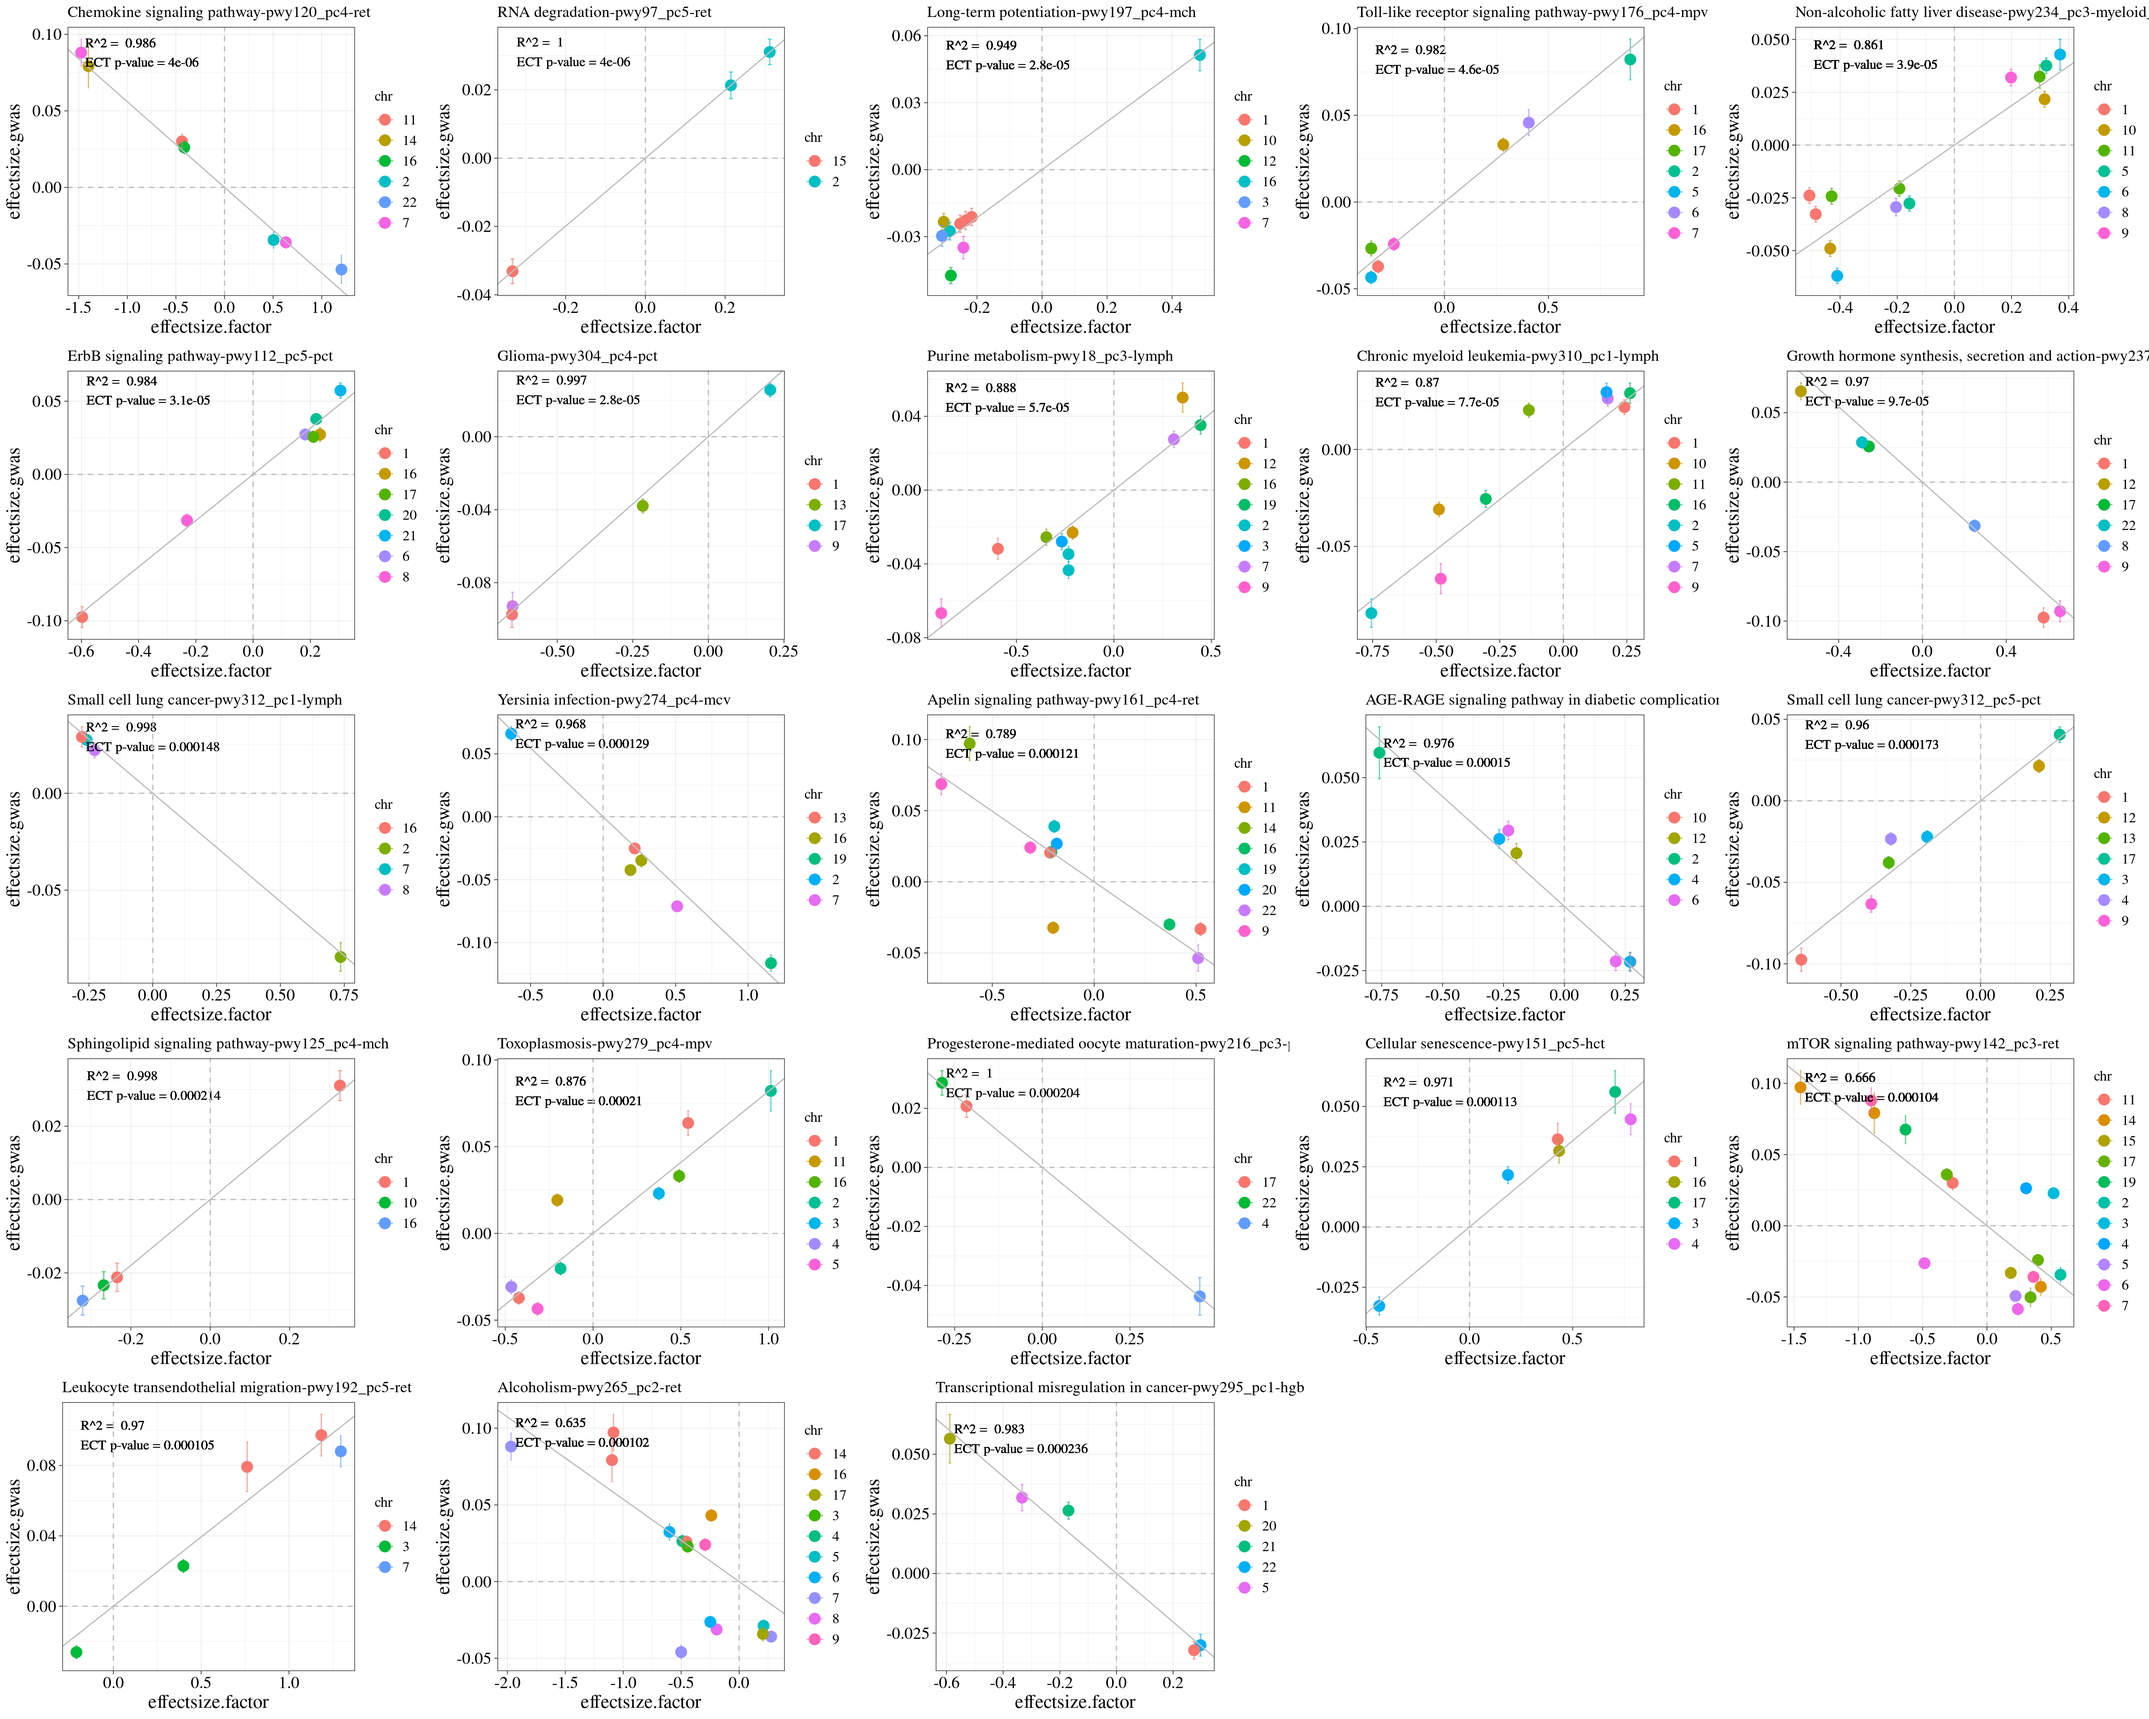
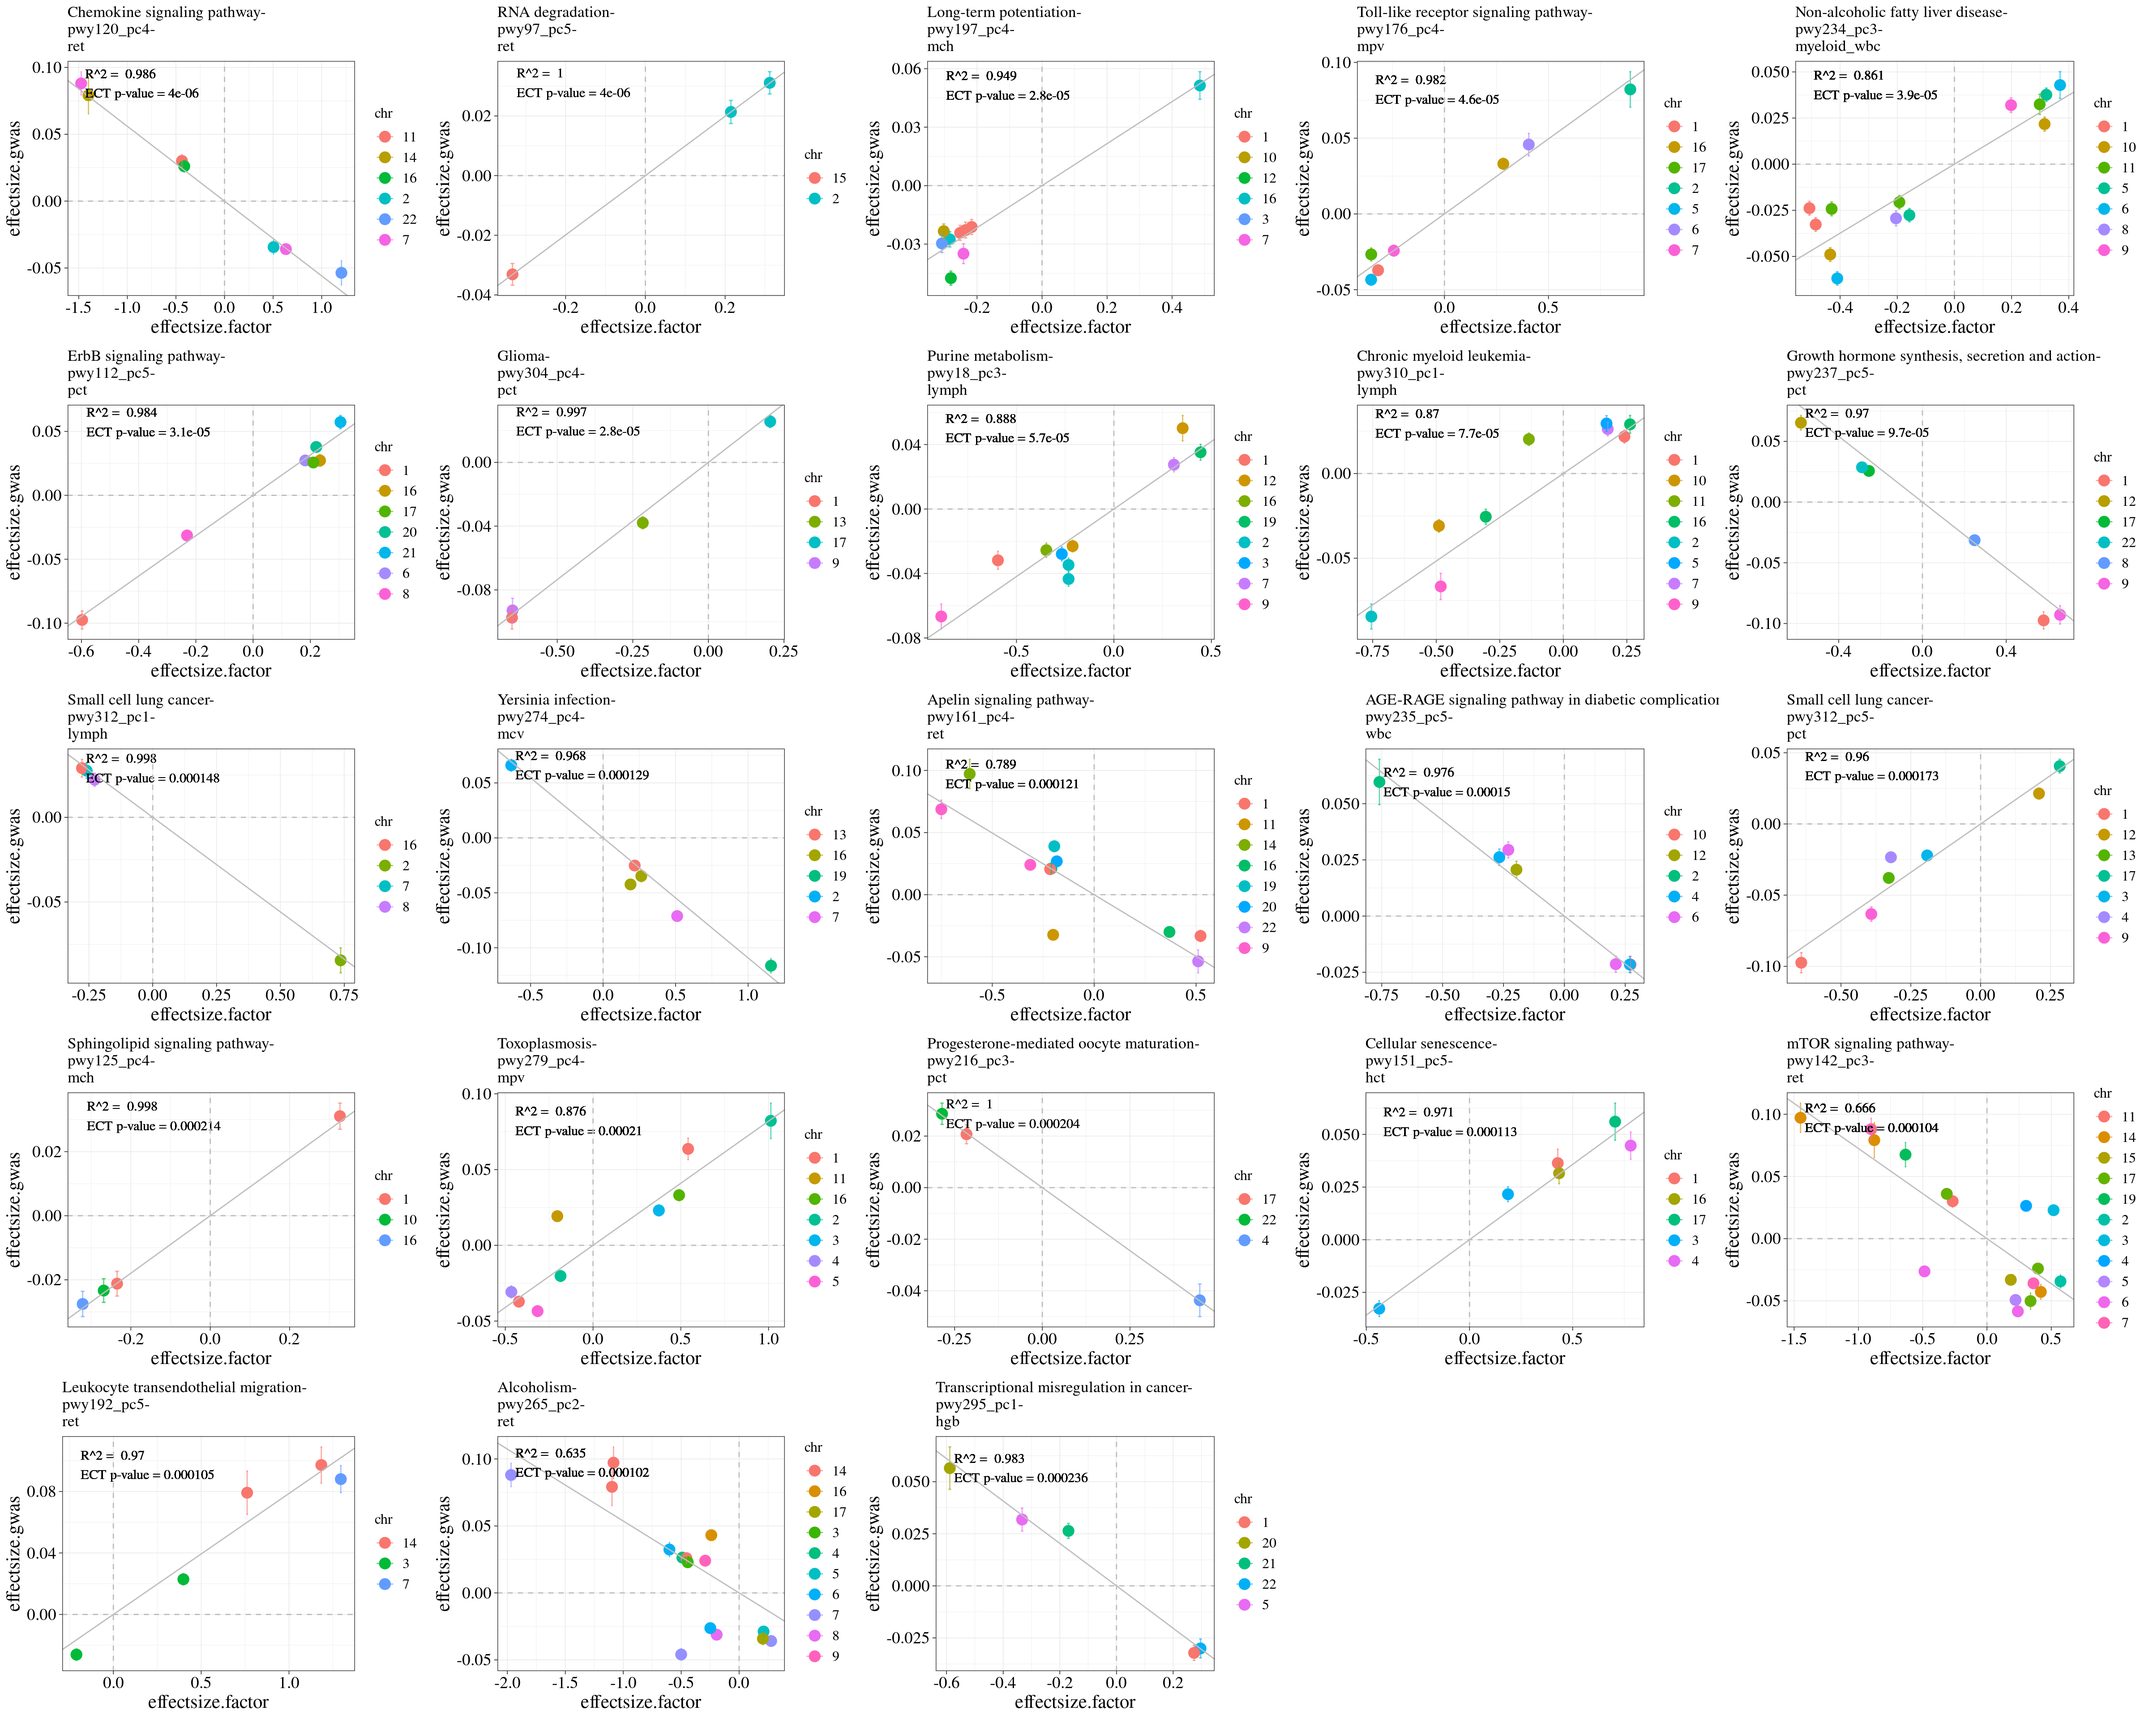
update

diff --git a/docs/rerun_ECT.html b/docs/rerun_ECT.html
@@ -547,15 +547,15 @@ project makes it easier to run your code on other machines.</p>
 <div class="panel panel-default">
 <div class="panel-heading">
 <p class="panel-title">
-<a data-toggle="collapse" data-parent="#workflowr-checks" href="#strongRepositoryversionstrongahrefhttpsgithubcomxsun1229factoranalysisnewtreee1bd91a6475d5f76a2ab5df57260d68082f3ad49targetblanke1bd91aa">
+<a data-toggle="collapse" data-parent="#workflowr-checks" href="#strongRepositoryversionstrongahrefhttpsgithubcomxsun1229factoranalysisnewtree67e648422429420d7494df5e83c8f96b09cb949ftargetblank67e6484a">
 <span class="glyphicon glyphicon-ok text-success"
 aria-hidden="true"></span> <strong>Repository version:</strong>
-<a href="https://github.com/xsun1229/factor_analysis_new/tree/e1bd91a6475d5f76a2ab5df57260d68082f3ad49" target="_blank">e1bd91a</a>
+<a href="https://github.com/xsun1229/factor_analysis_new/tree/67e648422429420d7494df5e83c8f96b09cb949f" target="_blank">67e6484</a>
 </a>
 </p>
 </div>
 <div
[2 lines of base64/hex data omitted]
 class="panel-collapse collapse">
 <div class="panel-body">
 <p>
@@ -565,7 +565,7 @@ reproducibility.
 </p>
 <p>
 The results in this page were generated with repository version
-<a href="https://github.com/xsun1229/factor_analysis_new/tree/e1bd91a6475d5f76a2ab5df57260d68082f3ad49" target="_blank">e1bd91a</a>.
+<a href="https://github.com/xsun1229/factor_analysis_new/tree/67e648422429420d7494df5e83c8f96b09cb949f" target="_blank">67e6484</a>.
 See the <em>Past versions</em> tab to see a history of the changes made
 to the R Markdown and HTML files.
 </p>
@@ -579,13 +579,8 @@ depends on. Below is the status of the Git repository when the results
 were generated:
 </p>
 <pre><code>
-Untracked files:
-    Untracked:  analysis/diagnosis_missed_pair.Rmd
-
 Unstaged changes:
-    Modified:   analysis/re_run_1203.Rmd
     Modified:   analysis/rerun_ECT.Rmd
-    Modified:   analysis/rerun_acat.Rmd
 
 </code></pre>
 <p>
@@ -631,6 +626,40 @@ Message
 </tr>
 </thead>
 <tbody>
+<tr>
+<td>
+Rmd
+</td>
+<td>
+<a href="https://github.com/xsun1229/factor_analysis_new/blob/334add9a5ca4f81f2ad2d4b697e9f2d4421787ca/analysis/rerun_ECT.Rmd" target="_blank">334add9</a>
+</td>
+<td>
+XSun
+</td>
+<td>
+2023-12-07
+</td>
+<td>
+update
+</td>
+</tr>
+<tr>
+<td>
+html
+</td>
+<td>
+<a href="https://rawcdn.githack.com/xsun1229/factor_analysis_new/334add9a5ca4f81f2ad2d4b697e9f2d4421787ca/docs/rerun_ECT.html" target="_blank">334add9</a>
+</td>
+<td>
+XSun
+</td>
+<td>
+2023-12-07
+</td>
+<td>
+update
+</td>
+</tr>
 <tr>
 <td>
 Rmd
@@ -1300,7 +1329,7 @@ for (i in 1:nrow(df_sorted)){
              size = 4,
              label.size = NA,
              alpha = 0) + 
-  ggtitle(paste0(pathway,&quot;-&quot;,factor,&quot;-&quot;,trait))  +
+  ggtitle(paste0(pathway,&quot;-\n&quot;,factor,&quot;-\n&quot;,trait))  +
   
   xlab(&quot;effectsize.factor&quot;) + ylab(&quot;effectsize.gwas&quot;) +
   geom_vline(xintercept = 0,color = &quot;grey&quot;,linetype = &quot;dashed&quot;) +
@@ -1333,6 +1362,17 @@ Date
 <tbody>
 <tr>
 <td>
+<a href="https://github.com/xsun1229/factor_analysis_new/blob/334add9a5ca4f81f2ad2d4b697e9f2d4421787ca/docs/figure/rerun_ECT.Rmd/unnamed-chunk-9-1.png" target="_blank">334add9</a>
+</td>
+<td>
+XSun
+</td>
+<td>
+2023-12-07
+</td>
+</tr>
+<tr>
+<td>
 <a href="https://github.com/xsun1229/factor_analysis_new/blob/4beb577ddf96e3d00635c3512bf7fd7d86e9ad9f/docs/figure/rerun_ECT.Rmd/unnamed-chunk-9-1.png" target="_blank">4beb577</a>
 </td>
 <td>
@@ -1346,6 +1386,58 @@ XSun
 </table>
 </div>
 </div>
+<pre class="r"><code>index &lt;- which(df_all$trait %in%c(&quot;EUR.IBD&quot;,&quot;ukb.allasthma&quot;))
+df_sorted &lt;- df_all[index,]
+eff&lt;- list()
+for (i in 1:nrow(df_sorted)){
+  
+  celltype_pair &lt;- celltypes[which(type == df_sorted$celltypes[i])]
+  trait &lt;- df_sorted$trait[i]
+  factor &lt;- df_sorted$factor[i]
+  pathway &lt;- df_sorted$pwy_name[i]
+
+  assoc_harmo &lt;- harmo[[celltype_pair]]
+  
+  dat &lt;- assoc_harmo[[trait]][[factor]]
+  snp_select &lt;- dat[dat$fdr &lt; fdr_cutoff,]
+  fit &lt;- lm(snp_select$beta.outcome ~ 0 + snp_select$beta.exposure)
+  ect_p &lt;- df_sorted$pval_ECT[df_sorted$factor == factor &amp;df_sorted$trait ==trait]
+  
+  eff[[i]] &lt;- ggplot(snp_select, aes(x=beta.exposure, y=beta.outcome, color=chr)) +
+  
+  geom_point(size = 4) + 
+  geom_errorbar(aes(ymin=beta.outcome-se.outcome, ymax=beta.outcome+se.outcome, color=chr), width=0.01 ,alpha=0.6) +
+  theme_bw(base_line_size =0.3) +
+  
+  theme(axis.title.x = element_text(size = 16),
+        axis.text.x = element_text(size = 14, color = &quot;black&quot;),
+        axis.title.y = element_text(size =16),
+        axis.text.y = element_text(size = 14, color = &quot;black&quot;),
+        text= element_text(family=&quot;Times&quot;),
+        legend.text = element_text(size=12),
+        legend.title = element_text(size=12)) + 
+  
+  geom_abline(slope = coef(fit)[1], intercept = 0, color = &quot;grey&quot;, size = 0.5) +
+  
+  geom_label(aes(x = min(beta.exposure), y =max(beta.outcome)), hjust = 0, 
+             label = paste(&quot;R^2 = &quot;,signif(summary(fit)$r.squared, 3),
+                           
+                           &quot; \nECT p-value =&quot;,ect_p),
+             #&quot; \np-value =&quot;,signif(summary(fit)$coef[1,4], 3)),
+             color = &quot;black&quot;,
+             family = &quot;Times&quot;,
+             size = 4,
+             label.size = NA,
+             alpha = 0) + 
+  ggtitle(paste0(pathway,&quot;-\n&quot;,factor,&quot;-\n&quot;,trait))  +
+  
+  xlab(&quot;effectsize.factor&quot;) + ylab(&quot;effectsize.gwas&quot;) +
+  geom_vline(xintercept = 0,color = &quot;grey&quot;,linetype = &quot;dashed&quot;) +
+  geom_hline(yintercept = 0,color = &quot;grey&quot;,linetype = &quot;dashed&quot;) 
+  
+}
+do.call(&quot;grid.arrange&quot;, c(eff, ncol = 5))</code></pre>
+<p><img src="figure/rerun_ECT.Rmd/unnamed-chunk-10-1.png" width="1920" style="display: block; margin: auto;" /></p>
 </div>
 <div id="checking-if-the-ect-ivs-pass-the-steiger-filtering"
 class="section level1">
@@ -1417,55 +1509,66 @@ for (i in 1:nrow(df_sorted)){
   
 }
 do.call(&quot;grid.arrange&quot;, c(eff, ncol = 5))</code></pre>
-<p><img src="figure/rerun_ECT.Rmd/unnamed-chunk-10-2.png" width="2400" style="display: block; margin: auto;" /></p>
-<p>
-<button type="button" class="btn btn-default btn-xs btn-workflowr btn-workflowr-fig" data-toggle="collapse" data-target="#fig-unnamed-chunk-10-2">
-Past versions of unnamed-chunk-10-2.png
-</button>
-</p>
-<div id="fig-unnamed-chunk-10-2" class="collapse">
-<div class="table-responsive">
-<table class="table table-condensed table-hover">
-<thead>
-<tr>
-<th>
-Version
-</th>
-<th>
-Author
-</th>
-<th>
-Date
-</th>
-</tr>
-</thead>
-<tbody>
-<tr>
-<td>
-<a href="https://github.com/xsun1229/factor_analysis_new/blob/e1bd91a6475d5f76a2ab5df57260d68082f3ad49/docs/figure/rerun_ECT.Rmd/unnamed-chunk-10-2.png" target="_blank">e1bd91a</a>
-</td>
-<td>
-XSun
-</td>
-<td>
-2023-12-06
-</td>
-</tr>
-<tr>
-<td>
-<a href="https://github.com/xsun1229/factor_analysis_new/blob/4beb577ddf96e3d00635c3512bf7fd7d86e9ad9f/docs/figure/rerun_ECT.Rmd/unnamed-chunk-10-2.png" target="_blank">4beb577</a>
-</td>
-<td>
-XSun
-</td>
-<td>
-2023-12-06
-</td>
-</tr>
-</tbody>
-</table>
+<p><img src="figure/rerun_ECT.Rmd/unnamed-chunk-11-2.png" width="2400" style="display: block; margin: auto;" /></p>
 </div>
-</div>
+<div id="some-highlighted-traits" class="section level1">
+<h1>Some highlighted traits</h1>
+<pre class="r"><code>load(&quot;/project/xinhe/xsun/pathway_factor/analysis/1.ECT/results/summary_mbe_steiger.rdata&quot;)
+
+
+p &lt;- list()
+for (traits in c(&quot;lymph&quot;,&quot;baso&quot;,&quot;ret&quot;)) {
+  
+  #print(traits)  
+  
+sum_traits &lt;- df_all[df_all$trait == traits,]
+
+# pwy &lt;- c(&quot;05220&quot;,&quot;04060&quot;,&quot;04640&quot;,&quot;04010&quot;,&quot;03013&quot;,&quot;05235&quot;,&quot;04664&quot;,&quot;05166&quot;,&quot;05169&quot;,&quot;00230&quot;)
+# selected &lt;- sum_traits[sum_traits$pwy_code %in% pwy,]
+
+selected &lt;- sum_traits
+index &lt;- which(duplicated(selected$pwy_name))
+selected$pwy_name[index] &lt;- paste0(selected$pwy_name[index],&quot; &quot;)
+
+selected$lgectpval &lt;- -log10(selected$pval_ECT)
+selected &lt;- selected[order(selected$lgectpval,decreasing = T),]
+selected$num_snp_pass_cutoff[nrow(selected)] &lt;- paste0(selected$num_snp_pass_cutoff[nrow(selected)],&quot; (# of supporting variants)&quot;)
+
+selected$pwy_name &lt;- factor(selected$pwy_name, levels = rev(unique(selected$pwy_name)))
+
+p[[length(p)+1]] &lt;- ggplot(selected) +
+  theme_bw(base_line_size =0.3) +
+  geom_col(aes(x=lgectpval, y=pwy_name, fill = celltypes), width = 0.6) +
+  geom_text(
+    data = selected,
+    aes(0, y = pwy_name, label = pwy_name),
+    hjust = 0,
+    nudge_x = 0.1,
+    colour = &quot;white&quot;,
+    size = 3,
+    family = &quot;Times&quot;
+  ) + 
+  geom_text(
+    data = selected,
+    aes(lgectpval, y = pwy_name, label = num_snp_pass_cutoff),
+    hjust = 0,
+    nudge_x = 0.01,
+    colour = &quot;black&quot;,
+    size = 3,
+    family = &quot;Times&quot;
+  ) +
+  labs(x.title = &quot;Lymphocyte Count&quot;,
+       x = expression(paste(&quot;-log&quot;[10],&quot;(ECT p-value)&quot;)),
+       y=&quot;Pathways&quot;) +
+  theme(axis.text.y = element_blank(),
+        text= element_text(family=&quot;Times&quot;)) +
+  xlim(0,ceiling(max(selected$lgectpval))) +
+  ggtitle(traits)
+  
+}
+
+do.call(&quot;grid.arrange&quot;, c(p, ncol = 1))</code></pre>
+<p><img src="figure/rerun_ECT.Rmd/unnamed-chunk-12-1.png" width="960" style="display: block; margin: auto;" /></p>
 <br>
 <p>
 <button type="button" class="btn btn-default btn-workflowr btn-workflowr-sessioninfo" data-toggle="collapse" data-target="#workflowr-sessioninfo" style="display: block;">
